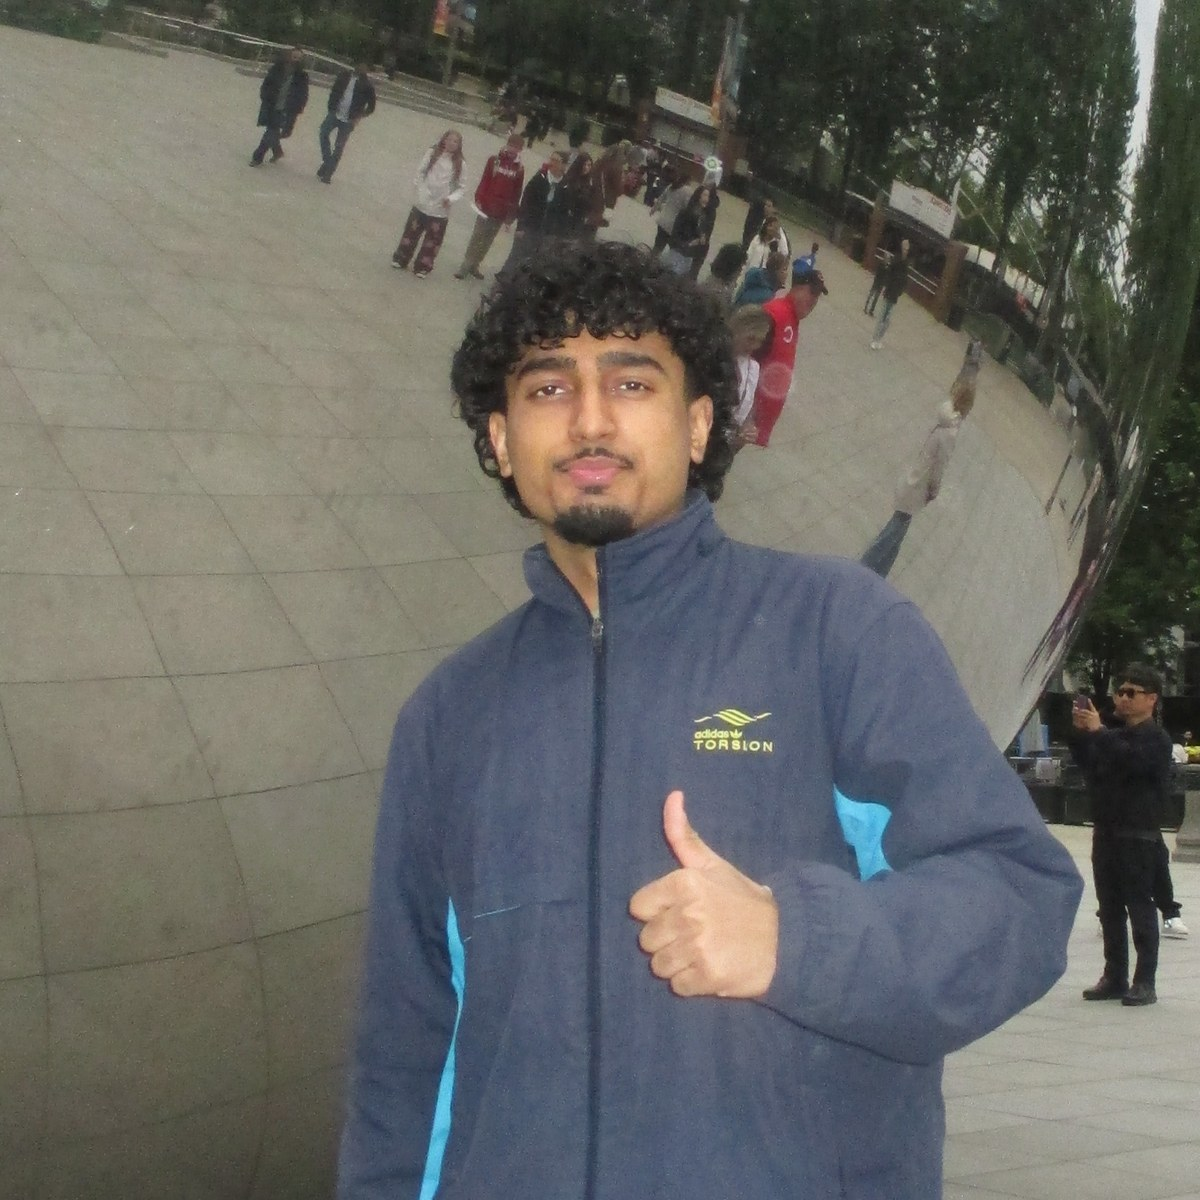
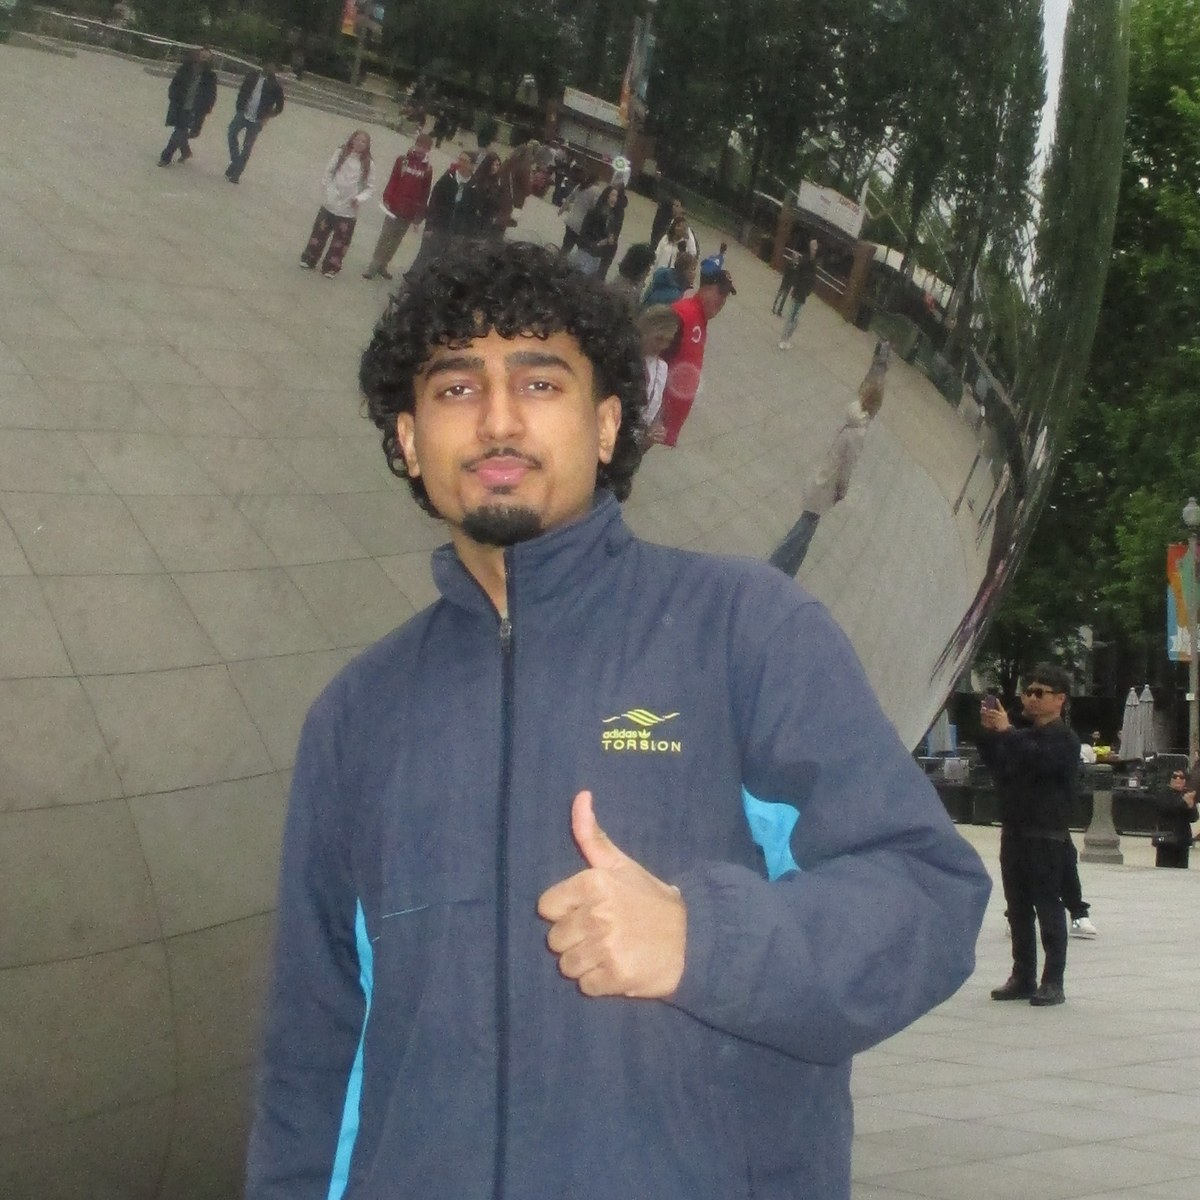
recentre the hero crop and shrink the frame
the crop window moves 130px right, which moves him that much left in frame.
his head read centred before but his body sat well right of it, so the
figure as a whole was off; head and shoulders now straddle the middle.

the frame goes from a stretched 320 wide to a fixed 288 square, centred
against the text column instead of filling it. that leaves about 24px above
and 24px below, the same either side, and it drops the near-square
compromise: the height is no longer whatever the prose wrapped to, so the
photo is exactly square now rather than 5% off.

the socials stay inside the column. nothing needs them there any more, but
they belong with the prose they follow.

diff --git a/src/components/hero.tsx b/src/components/hero.tsx
@@ -48,23 +48,23 @@ export function Hero() {
     <header className="pt-4 sm:pt-8">
       <div className="flex flex-col gap-6 sm:flex-row-reverse sm:items-stretch sm:justify-end sm:gap-10">
         {/*
-          Width is fixed and height stretches to the text column, so the photo
-          runs from the top of the heading all the way down to the socials,
-          which is why those live inside the column rather than under the row.
+          A fixed square, centred against the text column rather than stretched
+          to it. Stretching made the height whatever the prose happened to wrap
+          to, which is what forced the near-square compromise; at a set size it
+          is exactly square, and centring leaves the same gap above it as below
+          without either being written down.
 
-          The width is picked to land close to square against that height. It
-          cannot be exactly square: the column's height is whatever the prose
-          wraps to, which depends on the width left over once this photo has
-          taken its share, so the two chase each other. `object-cover` absorbs
-          the remaining few percent either way.
+          The socials stay inside the column. Nothing needs them there now, but
+          they belong with the prose they follow, and moving them back out
+          would put a second thing in the row for no reason.
         */}
-        <div className="relative aspect-square w-40 shrink-0 overflow-hidden rounded-2xl border border-border sm:aspect-auto sm:h-auto sm:w-80 sm:self-stretch">
+        <div className="relative aspect-square w-40 shrink-0 overflow-hidden rounded-2xl border border-border sm:w-72 sm:self-center">
           <Image
             src={site.photo}
             alt={site.name}
             fill
             priority
-            sizes="(max-width: 640px) 160px, 320px"
+            sizes="(max-width: 640px) 160px, 288px"
             className="object-cover"
           />
         </div>

diff --git a/src/data/site.ts b/src/data/site.ts
@@ -7,7 +7,7 @@ export const site = {
   url: "https://shivkhullar.com",
   description:
     "computer engineering @ university of waterloo. working on paper-to-implementation r&d and building projects i actually want to build.",
-  photo: "/profile.jpg",
+  photo: "/mypic.jpg",
   email: "shivansh.khullar@gmail.com",
   resume: "/Shivansh_Khullar_Resume.pdf",
   socials: {
